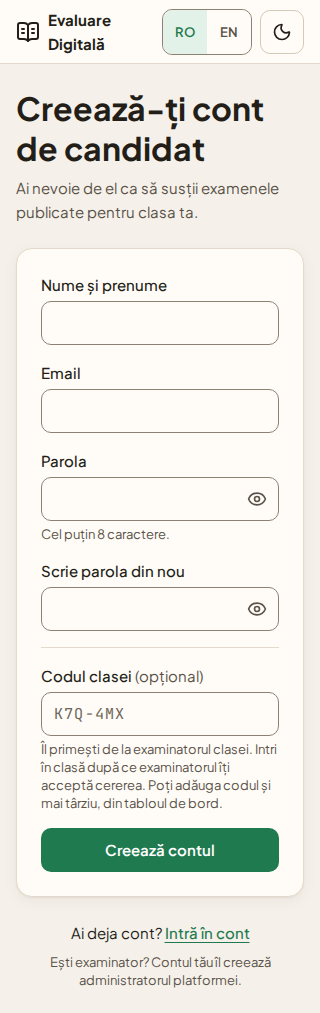
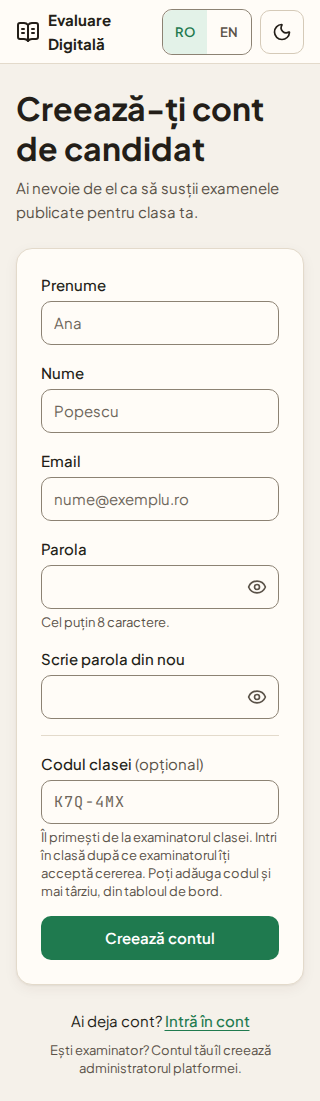
feat(frontend): registration asks for Prenume and Nume, with placeholders (P2b, DS-002)

diff --git a/frontend/src/pages/RegisterPage.tsx b/frontend/src/pages/RegisterPage.tsx
@@ -12,7 +12,7 @@ import TextField from '../components/TextField'
 import { linkClass } from '../components/styles'
 import { useFocusFirstInvalid } from '../components/useFocusFirstInvalid'
 
-type Field = 'name' | 'email' | 'password' | 'confirmation' | 'class_code'
+type Field = 'first_name' | 'last_name' | 'email' | 'password' | 'confirmation' | 'class_code'
 type Errors = Partial<Record<Field, string>>
 type Banner = 'offline' | 'throttled'
 
@@ -22,7 +22,8 @@ const strong = { strong: <strong /> }
 // The 422 codes of C-001 (docs/API.md, POST /api/register) on the field that shows them.
 function serverErrors(fields: Record<string, string[]>): Errors {
   const found: Errors = {}
-  if (fields.name) found.name = fields.name[0]
+  if (fields.first_name) found.first_name = fields.first_name[0]
+  if (fields.last_name) found.last_name = fields.last_name[0]
   if (fields.email) found.email = fields.email[0]
   const password = fields.password?.[0]
   if (password === 'mismatch') found.confirmation = password
@@ -35,7 +36,8 @@ function serverErrors(fields: Record<string, string[]>): Errors {
 export default function RegisterPage() {
   const { t } = useTranslation()
   const { user, register } = useAuth()
-  const [name, setName] = useState('')
+  const [firstName, setFirstName] = useState('')
+  const [lastName, setLastName] = useState('')
   const [email, setEmail] = useState('')
   const [password, setPassword] = useState('')
   const [confirmation, setConfirmation] = useState('')
@@ -54,7 +56,8 @@ export default function RegisterPage() {
     const code = classCode.trim()
     try {
       await register({
-        name: name.trim(),
+        first_name: firstName.trim(),
+        last_name: lastName.trim(),
         email: email.trim(),
         password,
         password_confirmation: confirmation,
@@ -72,7 +75,8 @@ export default function RegisterPage() {
   function submit(event: FormEvent) {
     event.preventDefault()
     const found: Errors = {}
-    if (!name.trim()) found.name = 'required'
+    if (!firstName.trim()) found.first_name = 'required'
+    if (!lastName.trim()) found.last_name = 'required'
     if (!EMAIL_PATTERN.test(email.trim())) found.email = 'invalid'
     if (!password) found.password = 'required'
     else if (password.length < MIN_PASSWORD) found.password = 'too_short'
@@ -125,16 +129,31 @@ export default function RegisterPage() {
           ) : null}
 
           <form ref={formRef} noValidate onSubmit={submit} className="grid gap-4">
-            <TextField
-              id="name"
-              label={t('register.name')}
-              autoComplete="name"
-              value={name}
-              onChange={(event) => setName(event.target.value)}
-              error={errors.name && t('register.nameRequired')}
-            />
+            <div className="grid gap-4 tablet:grid-cols-2">
+              <TextField
+                id="first_name"
+                label={t('register.firstName')}
+                autoComplete="given-name"
+                placeholder={t('register.firstNamePlaceholder')}
+                maxLength={100}
+                value={firstName}
+                onChange={(event) => setFirstName(event.target.value)}
+                error={errors.first_name && t(errors.first_name === 'invalid' ? 'register.nameTooLong' : 'register.firstNameRequired')}
+              />
+              <TextField
+                id="last_name"
+                label={t('register.lastName')}
+                autoComplete="family-name"
+                placeholder={t('register.lastNamePlaceholder')}
+                maxLength={100}
+                value={lastName}
+                onChange={(event) => setLastName(event.target.value)}
+                error={errors.last_name && t(errors.last_name === 'invalid' ? 'register.nameTooLong' : 'register.lastNameRequired')}
+              />
+            </div>
             <TextField
               id="email"
+              placeholder={t('login.emailPlaceholder')}
               type="email"
               label={t('register.email')}
               autoComplete="email"

diff --git a/frontend/e2e/auth.spec.ts b/frontend/e2e/auth.spec.ts
@@ -27,7 +27,8 @@ test('registration lands on the Candidate home', async ({ page }) => {
   await mockAuthApi(page, 'candidate')
   await page.goto('/register')
 
-  await page.getByLabel('Nume și prenume').fill('Ana Dumitru')
+  await page.getByLabel('Prenume', { exact: true }).fill('Ana')
+  await page.getByLabel('Nume', { exact: true }).fill('Dumitru')
   await page.getByLabel('Email', { exact: true }).fill('ana.dumitru@exemplu.ro')
   await page.getByLabel('Parola', { exact: true }).fill('lalea-verde-48')
   await page.getByLabel('Scrie parola din nou').fill('lalea-verde-48')

diff --git a/frontend/e2e/mockApi.ts b/frontend/e2e/mockApi.ts
@@ -3,7 +3,7 @@ import type { Page, Route } from '@playwright/test'
 export type Role = 'candidate' | 'examiner' | 'administrator'
 
 export function userWith(role: Role) {
-  return { id: 7, name: 'Ana Dumitru', email: 'ana.dumitru@exemplu.ro', role, is_active: true }
+  return { id: 7, first_name: 'Ana', last_name: 'Dumitru', name: 'Ana Dumitru', email: 'ana.dumitru@exemplu.ro', role, is_active: true }
 }
 
 function reply(route: Route, status: number, body?: unknown) {

diff --git a/frontend/src/api/auth.ts b/frontend/src/api/auth.ts
@@ -8,6 +8,9 @@ export const EMAIL_PATTERN = /^[^\s@]+@[^\s@]+\.[^\s@]+$/
 
 export interface User {
   id: number
+  first_name: string
+  last_name: string
+  /** "Prenume Nume", for display. */
   name: string
   email: string
   role: Role
@@ -25,7 +28,8 @@ export interface LoginInput {
 }
 
 export interface RegisterInput {
-  name: string
+  first_name: string
+  last_name: string
   email: string
   password: string
   password_confirmation: string

diff --git a/frontend/src/api/classes.ts b/frontend/src/api/classes.ts
@@ -13,12 +13,14 @@ export interface SchoolClass {
 
 export interface JoinRequest {
   id: number
-  candidate: { id: number; name: string; email: string }
+  candidate: { id: number; first_name: string; last_name: string; name: string; email: string }
   requested_at: string
 }
 
 export interface ClassCandidate {
   id: number
+  first_name: string
+  last_name: string
   name: string
   email: string
   joined_at: string

diff --git a/docs/plans/application-roadmap.md b/docs/plans/application-roadmap.md
@@ -13,7 +13,7 @@
 | **P1c** | **Exams schema**: `exams` (draft until published, grade level, duration, window, attempts, score policy, results release, cohort note), `class_exam`, `exam_items` (section, competence, difficulty, points, `pool_id`) | S | P1b | D-012, D-015, D-019, D-021, D-043 | — | — | [p1c-exams-schema.md](p1c-exams-schema.md) | ✅ merged (PR #6) |
 | **P1d** | **Attempts & answers schema**: `attempts` (deadline fixed at start, seed, state, scores), `attempt_items` (drawn question never repeated, drawn values, expected answer, snapshot), `answers` (autosave version, grading fields), `answer_images` (1–3), `answer_barem_scores` | M | P1c | D-004, D-005, D-006, D-019, D-021, D-026, D-031, D-043, D-045, D-048 | — | — | [p1d-attempts-schema.md](p1d-attempts-schema.md) | ✅ merged (PR #7) |
 | **P2** | **Auth & accounts**: [auth-part-1-backend.md](auth-part-1-backend.md), [auth-parts-2-and-3.md](auth-parts-2-and-3.md) (Part 2 §1 moved to P0), Administrator creates Examiners and sets passwords (D-020). Also: lock CORS to the frontend origin, Render trusted proxy, `<html lang>` and title follow the language switch (from the P0 review); refuse inactive users (`is_active = false`) at login and revoke their tokens on deactivation (from the P1a review) | M | P0, P1 | D-020, D-028, D-050, D-051, D-052, D-053 | DS-001 ✅, DS-002 ✅, DS-011 *(draft)* | — (Q-026, Q-033, Q-034, Q-040 answered 23 Nov) | [p2-auth-accounts.md](p2-auth-accounts.md) | ✅ merged (PR #8), live | |
-| **P3** | **Classes**: join code, pending → accept/decline, roster, Examiner sets a new password for a Candidate. From the P1a review: access checks verify `role = examiner` and `is_active`, not only class ownership; membership status and dates are set only by trusted code (the model allows no mass assignment); join codes are generated by the server and stored upper-case, since the unique key is case-sensitive; deleting a class first unlinks draft Exams and is refused while a published Exam is linked (D-049, Q-038) | M | P2 | D-015, D-020, D-028 | DS-013 ✅ | Q-041 (roster menu only) | [p3-classes.md](p3-classes.md) | 🔨 built on `feat/p3-classes`, awaiting merge | |
+| **P3** | **Classes**: join code, pending → accept/decline, roster, Examiner sets a new password for a Candidate. From the P1a review: access checks verify `role = examiner` and `is_active`, not only class ownership; membership status and dates are set only by trusted code (the model allows no mass assignment); join codes are generated by the server and stored upper-case, since the unique key is case-sensitive; deleting a class first unlinks draft Exams and is refused while a published Exam is linked (D-049, Q-038) | M | P2 | D-015, D-020, D-028 | DS-013 ✅ | Q-041 (roster menu only) | [p3-classes.md](p3-classes.md) | ✅ merged (PR #9), live; names split into first and last name in [p2b-first-last-name.md](p2b-first-last-name.md) | |
 | **P4a** | **Math engine**: sandboxed evaluator, values drawn from min/max bounds with simple conditions, seeded and reproducible, answer matching (decimal comma, expected fraction form, text normalisation) | M | P0 | D-006, D-013, D-017, D-043 | — | — | to plan | |
 | **P4b** | **Question bank**: pools, topic labels and competences managed in the app (D-039, D-041); a question's pools, labels and competence must belong to its Examiner (not enforced by the database); create/read/update/delete, Draft → Ready with required-field checks, barem definition, shared library (publish, copy), preview of drawn values | L | P1, P2, P4a | D-027, D-031, D-039, D-040, D-041, D-042, D-043 | DS-007 ✅ (needs a mock fix first: topics shown as competences; pools; grade and difficulty in "Ce lipsește pentru Finalizat") | Q-032 | to plan | |
 | **P4c** | **Seed & BANK.md**: insert-only seeder keyed on question code, creating the seeding Examiner's own competences and topic labels with the questions (D-039), BANK.md log structure. The question text is written by the user, never invented | S | P4b | D-029, D-039 | — | — | to plan | |

diff --git a/docs/agents/ARCHITECTURE.md b/docs/agents/ARCHITECTURE.md
@@ -39,7 +39,7 @@ exam-platform-web is an online mathematics assessment platform administering exa
 ## State and storage
 | What | Where | Owner | Notes |
 |---|---|---|---|
-| User credentials & roles | PostgreSQL (`users` table) | Backend | Hashed passwords; `role` (candidate, examiner, administrator; CHECK constraint, not mass-assignable) and `is_active` |
+| User credentials & roles | PostgreSQL (`users` table) | Backend | `first_name` and `last_name` (the API also returns `name`, "Prenume Nume"; P2b); hashed passwords; `role` (candidate, examiner, administrator; CHECK constraint, not mass-assignable) and `is_active` |
 | Competences | PostgreSQL (`competences`) | Backend | Each Examiner's own list: code unique per Examiner, description (D-039) |
 | Classes & memberships | PostgreSQL (`classes`, `class_memberships`) | Backend | Unique join code per class; membership status pending / accepted / rejected, one row per Candidate and class (D-015, D-028) |
 | Question bank | PostgreSQL (`questions`, `pools`, `pool_question`, `topic_labels`, `question_topic_label`, `barem_steps`) | Backend | Each Examiner's bank, pools and topic labels; Draft/Ready and other rules as CHECK constraints (D-031, D-040, D-041, D-042); library entries are frozen copies (`published_to_library_at`, `copied_from_id`); JSON answer key and parameters |
